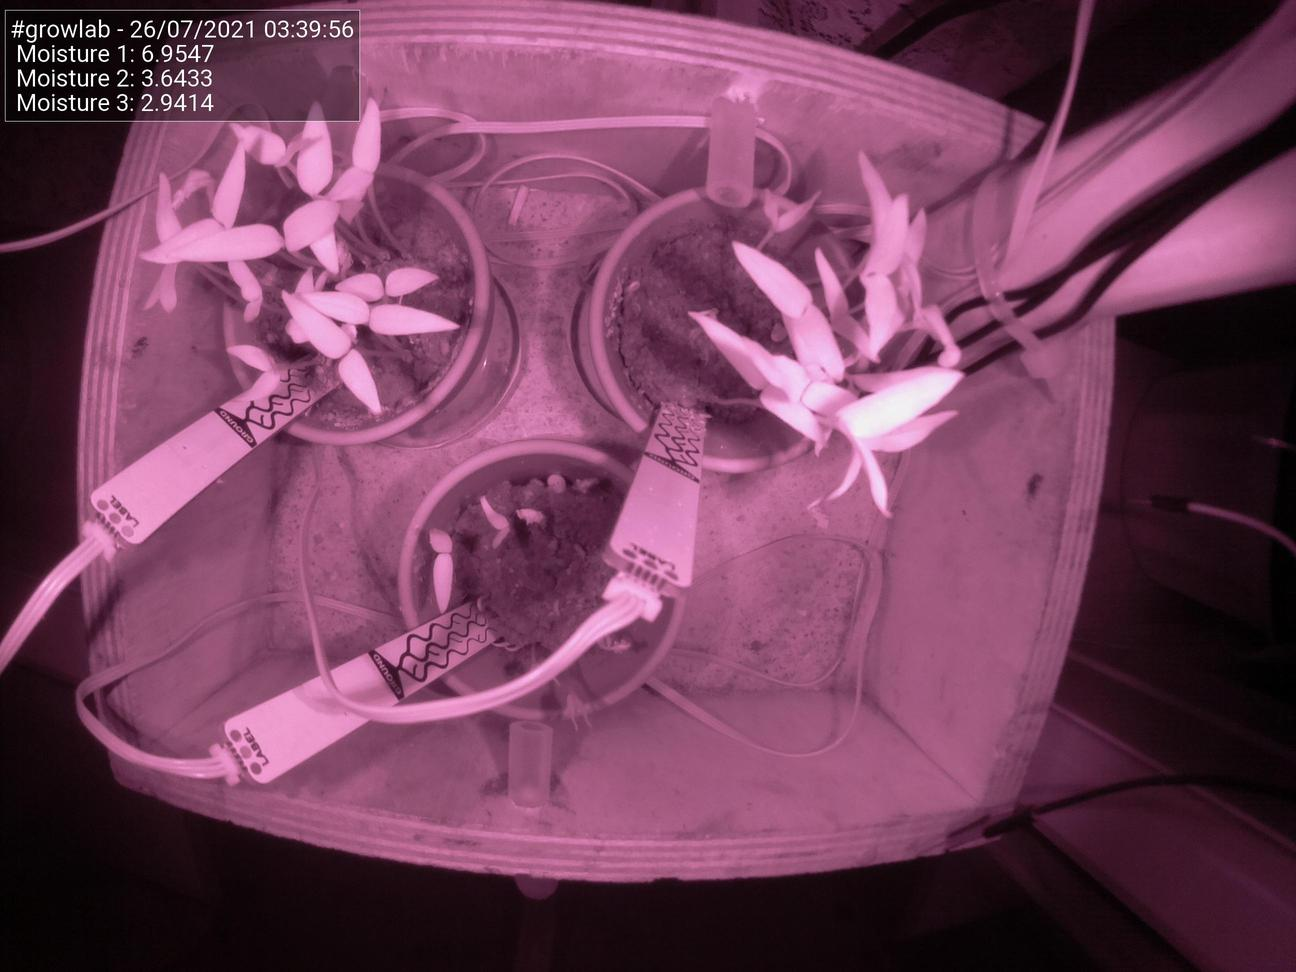
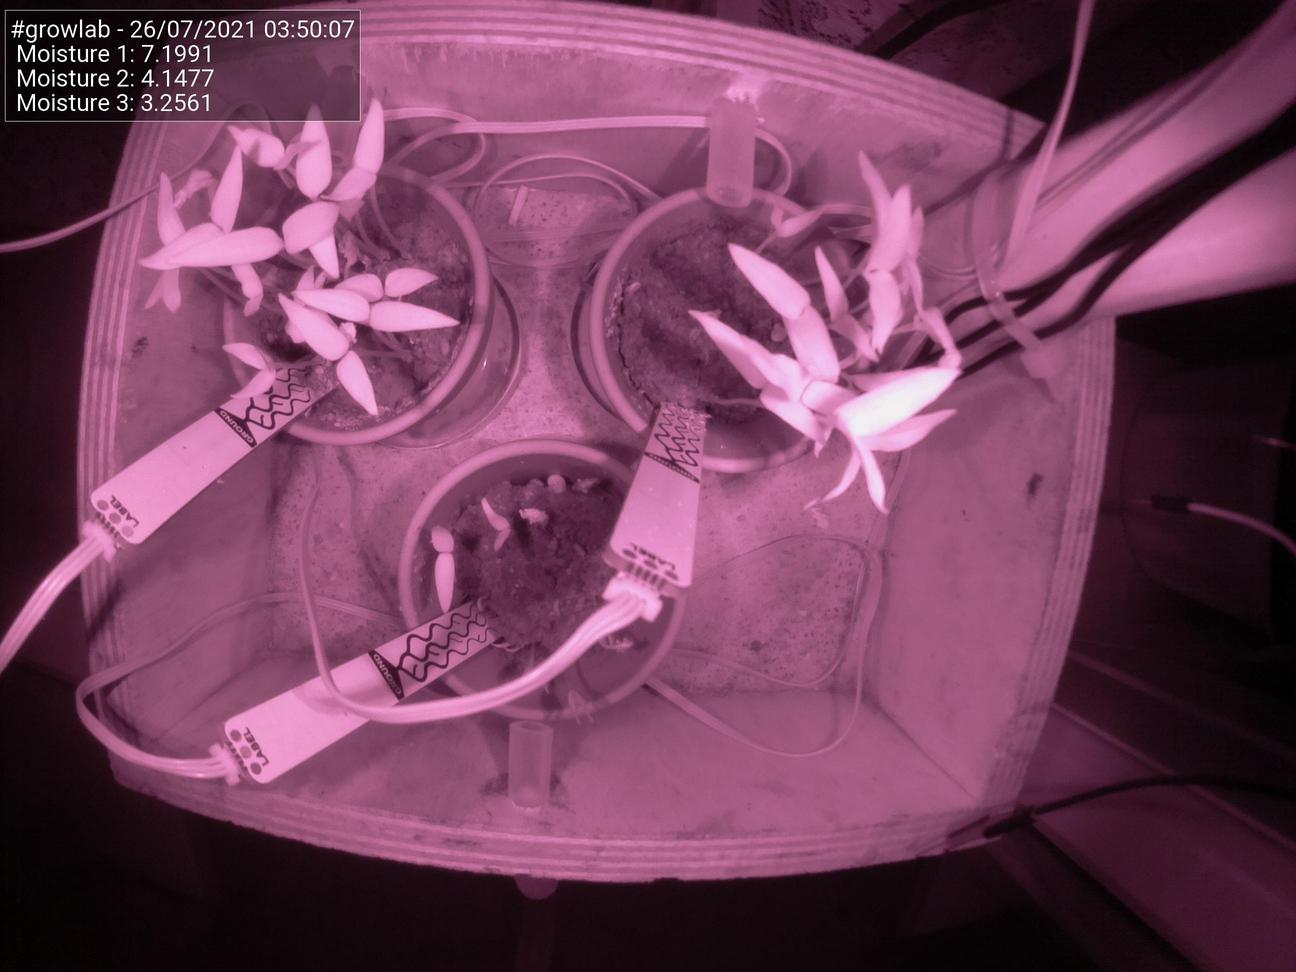
Update images at Mon 26 Jul 03:50:12 BST 2021

diff --git a/docs/index.html b/docs/index.html
@@ -51,25 +51,25 @@
                                 <td>Date</td>
                                 <td>26/07/2021</td>
                                 <td>Time</td>
-                                <td>03:39:56</td>
+                                <td>03:50:07</td>
                             </tr>
                             <tr>
                                 <td>Temperature</td>
                                 <td>N/A</td>
                                 <td>Moisture 1</td>
-                                <td>6.9547</td>
+                                <td>7.1991</td>
                             </tr>
                             <tr>
                                 <td>Humidity</td>
                                 <td>N/A</td>
                                 <td>Moisture 2</td>
-                                <td>3.6433</td>
+                                <td>4.1477</td>
                             </tr>
                             <tr>
                                 <td>Pressure</td>
                                 <td>N/A</td>
                                 <td>Moisture 3</td>
-                                <td>2.9414</td>
+                                <td>3.2561</td>
                             </tr>
                         </tbody>
                     </table>
@@ -77,7 +77,7 @@
 
                 <h5>Latest image</h5>
                 <div style="width: 85%;">
-                            <img class="figure-img img-fluid rounded" src="./preview.jpg?uid=1627267202.1267014">
+                            <img class="figure-img img-fluid rounded" src="./preview.jpg?uid=1627267812.7933717">
                 </div>
             </div>
         </div>
